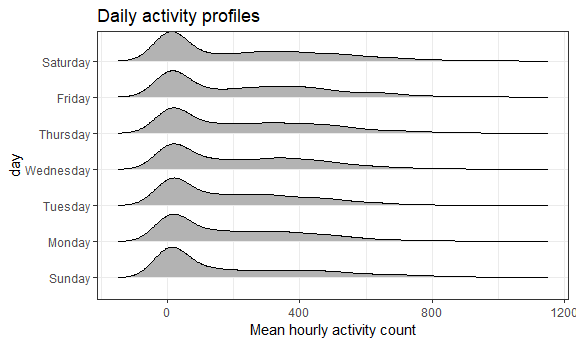
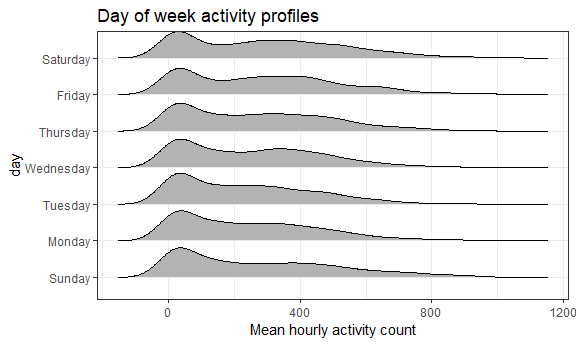
final edits to lower word count

diff --git a/p8105_mtp_sal2222.md b/p8105_mtp_sal2222.md
@@ -12,7 +12,7 @@ October 26, 2018
 Introduction
 ------------
 
-This project examines 47 weeks of accelerometer device data from a 63 year-old male with congestive heart failure (CHF) in order to understand patterns of physical activity over time.
+This project examines 47 weeks of accelerometer device data from a 63 year-old male with congestive heart failure with a goal of understanding patterns of physical activity over time.
 
 Accelerometer dataset description
 ---------------------------------
@@ -47,43 +47,41 @@ activity_df
     ## 10     1 Sunday        10        1
     ## # ... with 473,750 more rows
 
-After data wrangling, my resulting dataset consists of 473760 observations representing each minute and 4 variables for week, day of week, minute of the day, and activity count score.
+After data wrangling, the resulting dataset consists of 473760 observations representing each minute and 4 variables for week, day of week, minute of the day, and activity count score.
 
 A `skimr` skim review shows that there are no missing values for any of the variables, each day of the week appears 67,680 times, there are 47 weeks of data, and the mean activity count score is 240.34 with a range from 1 - 10,417.
 
-A histogram view of activity counts indicates a very right-skewed distribution with a large peak at the baseline count value of 1. A boxplot view illustrates a large number of extreme outliers. It is unclear whether these measurements are due to periods of more intense activity or are due to instrument error. An empirical cumulative distribution function (ECDF) plot of activity shows that the distribution curve approaches `1.00` at an activity count of approximately `2500`.
-
-The value `1` appears 204507 times, accounting for 43.1667933 percent of all observations. At the upper end of the distribution, there are 1489 observations above `2500`, 183 above `5000`, and 20 above `7500`.
+A histogram shows a right-skewed distribution with a peak at the baseline count value of 1. A boxplot indicates a large number of extreme outliers. A cumulative distribution plot shows that the curve approaches `1.00` at a count of approximately `2500`.
 
 ``` r
-ecdf_p <- activity_df %>% 
-    ggplot(aes(x = activity)) +
-    stat_ecdf(geom = "step") +
-    labs(
-    title = "Activity count empirical \ncumulative distribution function",
-    x = "Activity count",
-    y = "Cumulative density"
-  )
-
-hist_p <- activity_df %>% 
+activity_df %>% 
   filter(activity < 2500 & activity > 1) %>% 
   ggplot(aes(x = activity)) + 
-  geom_histogram(bins = 200) +
-  labs(
-    title = "Activity count histogram \n(1 < Activity < 2500)",
-    x = "Activity count",
-    y = "Count"
-  )
-
-(ecdf_p + hist_p)
+    geom_histogram(binwidth = 20, 
+                   color = "black", 
+                   aes(fill = ..count..)) +
+    viridis::scale_fill_viridis(
+        name = "Count", 
+        discrete = FALSE
+      ) +
+    geom_density(aes(y = 20 * ..count..)) +
+    labs(
+      title = "Activity count histogram",
+      x = "Activity count",
+      y = "Count",
+      caption = "Counts between 1 and 2500"
+    ) +
+     theme(legend.position = "none") 
 ```
 
-<img src="p8105_mtp_sal2222_files/figure-markdown_github/unnamed-chunk-1-1.png" width="90%" />
+<img src="p8105_mtp_sal2222_files/figure-markdown_github/activity_histogram-1.png" width="90%" />
+
+The value `1` appears 204507 times, accounting for 43.1667933 percent of all observations. At the upper end of the distribution, there are 1489 observations above `2500`, 183 above `5000`, and 20 above `7500`.
 
 Activity over time
 ------------------
 
-I will explore the hypothesis that the participant became more active over time by first examining a scatterplot of the indexed day from 1 to 329 and the aggregated total dialy activity.
+To assess activity over time, I first examined a scatterplot of the 329 indexed days and aggregated total daily activity.
 
 ``` r
 activity_df %>%
@@ -104,7 +102,7 @@ activity_df %>%
 
 <img src="p8105_mtp_sal2222_files/figure-markdown_github/total_daily_activity_plot-1.png" width="90%" />
 
-A LOESS curve and linear regression line both show increased activity over the span of the study period.
+A LOESS curve and linear regression line both show increased activity over the span of the study period. The linear line fits the data reasonably.
 
 ``` r
 activity_df %>%
@@ -122,14 +120,12 @@ activity_df %>%
 | (Intercept) |  251538.51|   15716.21|      16.01|        0|
 | day\_index  |     573.01|      82.55|       6.94|        0|
 
-The output from a simple linear regression model shows that the activity increase over time is statistically significant. For each one day increase, the total daily activity count increases by 573 units (p &lt; 0.00001).
+A regression model shows that daily activity increase over time is statistically significant. For each one day increase, the total daily activity count increases by 573 units (p &lt; 0.00001).
 
 Day of week effect
 ------------------
 
-I will next examine the possibility that day of the week affects activity.
-
-First, I examine summary statistics by day of week to compare the effect in isolation.
+I examined day of week summary statistics to assess the effect in isolation.
 
 ``` r
 activity_df %>%
@@ -150,7 +146,9 @@ activity_df %>%
 | Friday    |  270.76|      64|  461.99|
 | Saturday  |  244.93|      32|  424.81|
 
-A review of mean and median activity counts shows some variation by day of week, but there is not an apparent increase or decrease over the course of the week or difference between weekday and weekend.
+A review of mean and median activity counts shows some variation by day of week, but there is not an apparent increase or decrease over the course of the week.
+
+Boxplots and ridgeline plots by day of week display similar distribution patterns.
 
 ``` r
 activity_df %>%
@@ -172,18 +170,14 @@ activity_df %>%
     )
 ```
 
-<img src="p8105_mtp_sal2222_files/figure-markdown_github/unnamed-chunk-2-1.png" width="90%" />
+<img src="p8105_mtp_sal2222_files/figure-markdown_github/daily_activity_dow_plot-1.png" width="90%" />
 
-Next, I will again plot activity over time, but include linear regression lines for each day of the week. Now, we see that activity increased over time for each day, but the slopes show that the rate increased more for the weekends than the weekdays. Saturday in particular started of with the lowest activity counts in the initial months, and ended the study period in the high end of activity. Friday activity was consistently a high activity day and Tuesday was consistently a lower activity day.
+Linear regression lines for each day of the week, indicate that activity increased over time for each day. The slopes show that the rate increased more for the weekends compared to weekdays. Saturday had the lowest activity counts in the initial months and ended with the highest counts. Friday activity was consistently high and Tuesday activity was consistently low.
 
 Daily activity profiles
 -----------------------
 
-Make a visualization that shows the 24-hour activity “profiles” for each day. Also visualize effects of time and day of the week on 24-hour activity profiles; incorporating smooth estimates of mean activity profiles may clarify these effects. Comment on relationships you think are interesting.
-
-facet\_wrap(~week\_day)
-
-ggplot(aes(x = activity, y = week\_day)) + ggridges::geom\_density\_ridges(scale = .85)
+The plot below visualizes the profile of hourly activity for each day, with a LOESS curve indicating the overall pattern. We see the participant's activity gradually increase from midnight to around 10 AM, and then remain steady until around 5:30 PM, when it begins to decline for the evening.
 
 ``` r
 activity_df %>%
@@ -212,6 +206,8 @@ activity_df %>%
 
 <img src="p8105_mtp_sal2222_files/figure-markdown_github/24_hour_activity-1.png" width="90%" />
 
+Over 10-week periods, the daily 24-hour patterns appears similar, but counts grow larger by the fifth 10-week period. The day of the week profile patterns are also similar, but indicate that the participant stay active later in the evening on Fridays and reduces activity earlier on Sundays.
+
 ``` r
 activity_df %>%
   group_by(week, day) %>%
@@ -227,7 +223,7 @@ activity_df %>%
     geom_smooth(method = loess, se = TRUE, size = 1.0) +
     facet_wrap(~day) +
     labs(
-      title = "Daily activity profiles",
+      title = "Daily activity profiles by day of week",
       x = "Hour of day",
       y = "Mean hourly activity count"
     ) + 
@@ -246,7 +242,7 @@ wordcountaddin::text_stats("p8105_mtp_sal2222.Rmd")
 
 | Method          | koRpus      | stringi       |
 |:----------------|:------------|:--------------|
-| Word count      | 548         | 517           |
-| Character count | 3312        | 3311          |
-| Sentence count  | 32          | Not available |
-| Reading time    | 2.7 minutes | 2.6 minutes   |
+| Word count      | 496         | 472           |
+| Character count | 3041        | 3040          |
+| Sentence count  | 30          | Not available |
+| Reading time    | 2.5 minutes | 2.4 minutes   |
